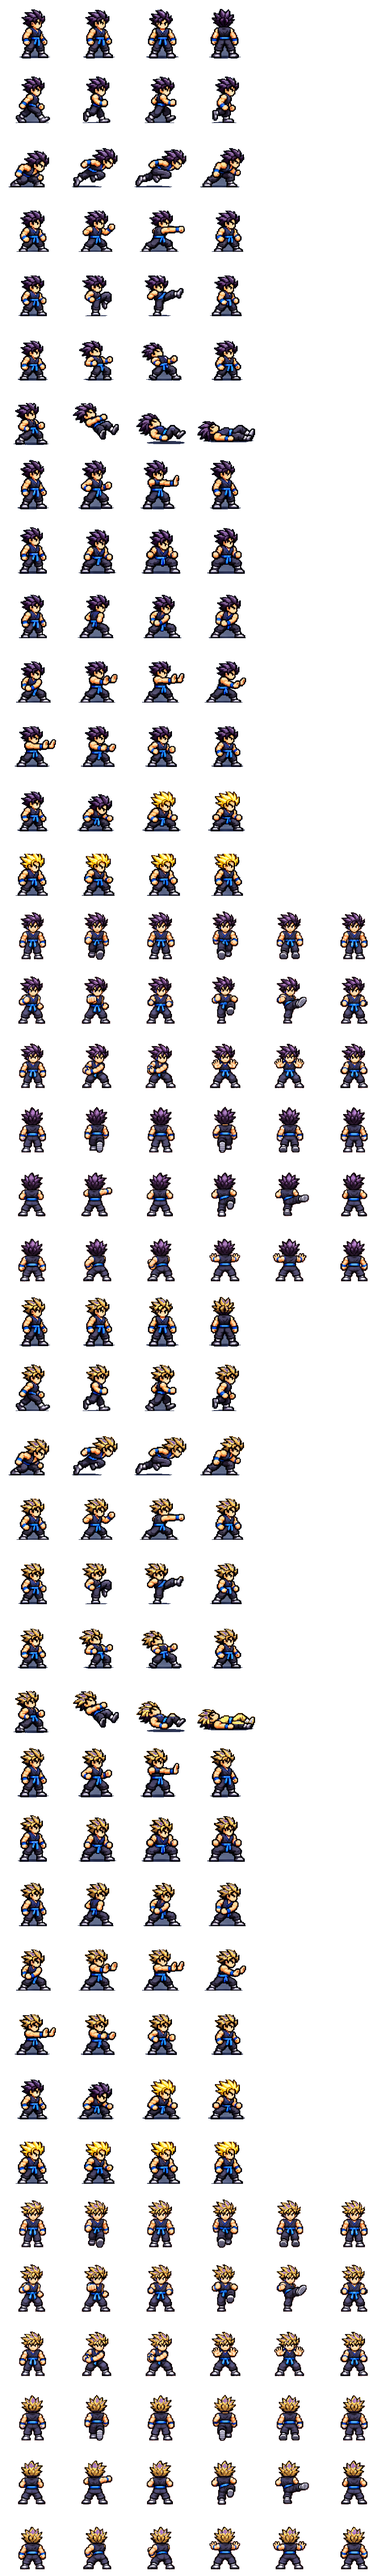
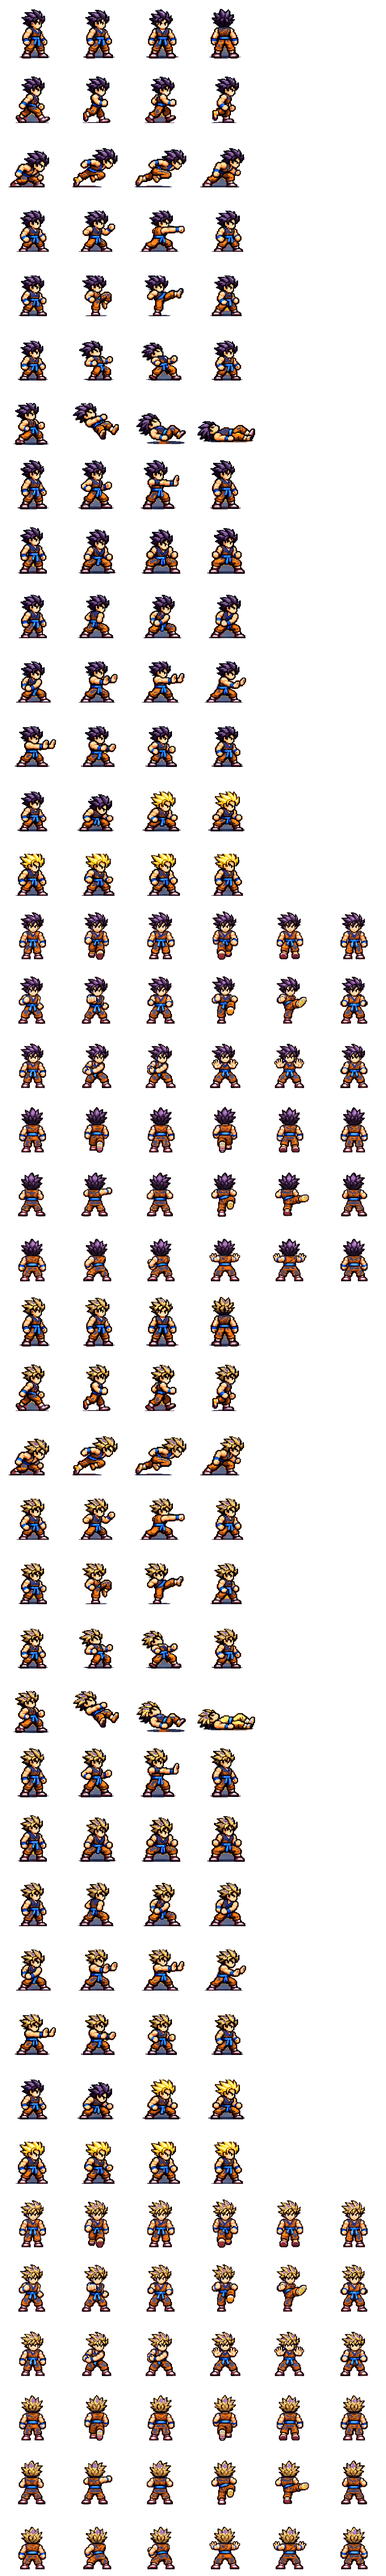
Restore orange hero outfit and strengthen Surge animation

diff --git a/index.html b/index.html
@@ -702,7 +702,7 @@ function renderBeamCharge(p){
   }
   c.restore();
 }
-function act(a,down,source='keyboard'){if(mode!=='play')return;let p=player;if(down&&p.hurt>0&&['hit','ki','dash'].includes(a))return;if(a==='hit'&&down)punch();if(a==='ki'&&down)fire();if(a==='charge'){if(down)notice('CHARGING KI')}if(a==='beam'){if(down)beginBeam(p,source);else releaseBeam(p,source)}if(a==='dash'&&down&&!p.beam&&p.dashCD<=0&&p.ki>=5){spendKi(p,5);p.dash=.19;p.dashCD=.68;burst(p.x,p.y-16,'#d3f2ff')}if(a==='surge'&&down){if(p.surge){p.surge=false;notice('SURGE OFF')}else if(p.ki>=20){p.surge=true;p.surgeFlare=.32;notice('SURGE MODE!')}}if(a==='fly'&&down){if(p.fly){if(solid(p.x,p.y))notice('CLEAR GROUND TO LAND');else{p.fly=false;notice('LANDED')}}else if(p.ki>=10){p.fly=true;notice('FLIGHT MODE')}}}
+function act(a,down,source='keyboard'){if(mode!=='play')return;let p=player;if(down&&p.hurt>0&&['hit','ki','dash'].includes(a))return;if(a==='hit'&&down)punch();if(a==='ki'&&down)fire();if(a==='charge'){if(down)notice('CHARGING KI')}if(a==='beam'){if(down)beginBeam(p,source);else releaseBeam(p,source)}if(a==='dash'&&down&&!p.beam&&p.dashCD<=0&&p.ki>=5){spendKi(p,5);p.dash=.19;p.dashCD=.68;burst(p.x,p.y-16,'#d3f2ff')}if(a==='surge'&&down){if(p.surge){p.surge=false;notice('SURGE OFF')}else if(p.ki>=20){p.surge=true;p.surgeFlare=surgeIgnitionTime;notice('SURGE MODE!')}}if(a==='fly'&&down){if(p.fly){if(solid(p.x,p.y))notice('CLEAR GROUND TO LAND');else{p.fly=false;notice('LANDED')}}else if(p.ki>=10){p.fly=true;notice('FLIGHT MODE')}}}
 const stick=root.querySelector('.stick'),knob=stick.querySelector('.stick-knob');
 let stickPointer=null,stickX=0,stickY=0;
 function resetStick(){
@@ -1740,7 +1740,7 @@ function drawStrike(o,type,progress){
 // Whole-body frames cut from the approved board. Effects use the palm
 // coordinates of the same displayed frame and are drawn independently.
 const approvedHero=new Image();
-approvedHero.src='assets/hero-approved.webp';
+approvedHero.src='assets/hero-approved.webp?v=orange';
 const approvedEffects=new Image();
 approvedEffects.src='assets/hero-approved-effects.webp';
 const approvedEffectSizes=[[61,61],[126,38],[135,36],[230,92],[129,106],[160,95],[106,105]];
@@ -1812,7 +1812,7 @@ function approvedHeroPose(o,referencePose){
     if(vertical)return pose(directionRow+1,0,1);
     return pose(8,frameInClip(o.rechargeVisual,4));
   }
-  if(o.surge&&o.surgeFlare>0&&!vertical)return pose(12,frameInClip(1-o.surgeFlare/.32,4));
+  if(o.surge&&o.surgeFlare>0&&!vertical)return pose(12,frameInClip(1-o.surgeFlare/surgeIgnitionTime,4));
   if(o.stride>.18){
     if(vertical)return pose(directionRow,frameInClip(gait,4)+1,1);
     return pose(1,frameInClip(gait,4),side);
@@ -2003,6 +2003,46 @@ function renderKiPulse(f){
   }
   c.restore();
 }
+const surgeIgnitionTime=.47;
+function drawSurgeAura(p){
+  const age=surgeIgnitionTime-p.surgeFlare;
+  const flare=lim(age/surgeIgnitionTime,0,1);
+  const ignition=animationEase((flare-.2)/.18)*(1-animationEase((flare-.59)/.41));
+  const breathing=1+.05*Math.sin(storyClock*16)+.026*Math.sin(storyClock*25);
+  const width=38*breathing+ignition*11;
+  const height=39+ignition*15+Math.sin(storyClock*22)*1.6;
+  c.globalAlpha=(.77+.13*Math.sin(storyClock*17))*animationEase(flare/.34);
+  drawApprovedEffect(6,-width/2,4-height,width,height);
+
+  if(ignition>.01){
+    const spread=44+flare*29;
+    c.globalAlpha=ignition;
+    drawApprovedEffect(5,-spread/2,4-spread*.66,spread,spread*.66);
+    const radius=9+flare*36;
+    c.lineWidth=1.05;
+    c.strokeStyle='#ffefb2';
+    c.beginPath();
+    c.ellipse(0,3,radius,radius*.24,0,0,Math.PI*2);
+    c.stroke();
+  }
+
+  // Sparks rise along alternating sides while the body and ground stay readable.
+  for(let i=0;i<7;i++){
+    const rise=(storyClock*(1.07+i*.07)+i*.37)%1;
+    const side=i%2?1:-1;
+    const x=side*(10+Math.sin(i*5.1+rise*7)*3+rise*8);
+    const y=2-rise*(height+5);
+    c.globalAlpha=Math.sin(rise*Math.PI)*(.3+.5*animationEase(flare/.4));
+    c.strokeStyle=i%3===0?'#fff5be':'#ffb744';
+    c.lineWidth=i%3===0?1.2:.7;
+    c.beginPath();
+    c.moveTo(x-side*2,y+4);
+    c.lineTo(x+side,y+1);
+    c.lineTo(x-side*.1,y+1);
+    c.lineTo(x+side*3,y-4);
+    c.stroke();
+  }
+}
 function surgeIgnitionWeight(remaining){return animationEase(remaining/.16)}
 function energyAura(p){
   if(!storyReady())return;
@@ -2011,22 +2051,18 @@ function energyAura(p){
   c.scale(poseSide(p),1);
   const flicker=(.93+.07*Math.sin(storyClock*14))*(p.surge?1:p.rechargeVisual);
   if(atlasReady(approvedEffects)){
-    const pulse=1+.055*Math.sin(storyClock*19);
-    const ignition=p.surge?animationEase(p.surgeFlare/.25):0;
-    const size=(p.surge?44:32+18*p.rechargeVisual)*pulse;
-    c.globalAlpha=flicker*(1-ignition*.8);
-    drawApprovedEffect(p.surge?6:4,-size/2,4-size,size,size);
-    if(ignition>0){
-      const burst=52+13*(1-ignition);
-      c.globalAlpha=flicker*ignition;
-      drawApprovedEffect(5,-burst/2,4-burst*.69,burst,burst*.69);
+    if(p.surge)drawSurgeAura(p);
+    else{
+      const size=(32+18*p.rechargeVisual)*(1+.055*Math.sin(storyClock*19));
+      c.globalAlpha=flicker;
+      drawApprovedEffect(4,-size/2,4-size,size,size);
     }
     c.restore();
     return;
   }
   const rippleHeight=storyScale*(1+.045*Math.sin(storyClock*17));
   if(p.surge&&atlasReady(kiActions)){
-    const progress=lim(1-p.surgeFlare/.32,0,1);
+    const progress=lim(1-p.surgeFlare/surgeIgnitionTime,0,1);
     const size=58;
     c.globalAlpha=flicker;
     if(progress<1){
@@ -2043,7 +2079,7 @@ function energyAura(p){
   c.globalAlpha=flicker*(1-ignition);
   if(ignition<1)drawStoryMotion(p.surge?'sustainAura':'rechargeAura',storyClock,storyScale,rippleHeight);
   if(ignition>0){
-    const age=.32-p.surgeFlare;
+    const age=surgeIgnitionTime-p.surgeFlare;
     const expansion=1+.20*animationEase(age/.16);
     c.globalAlpha=flicker*ignition;
     drawStoryMotion('igniteAura',age,storyScale*expansion,rippleHeight);
